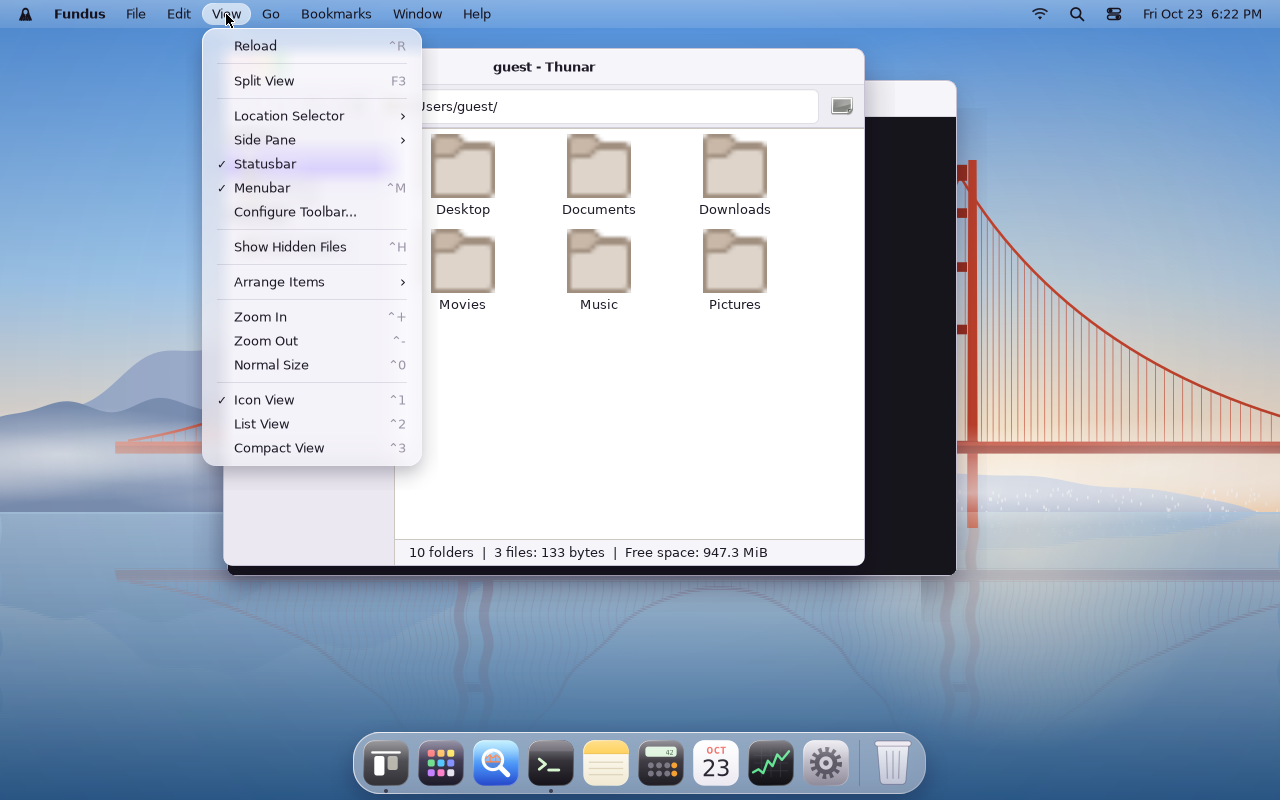
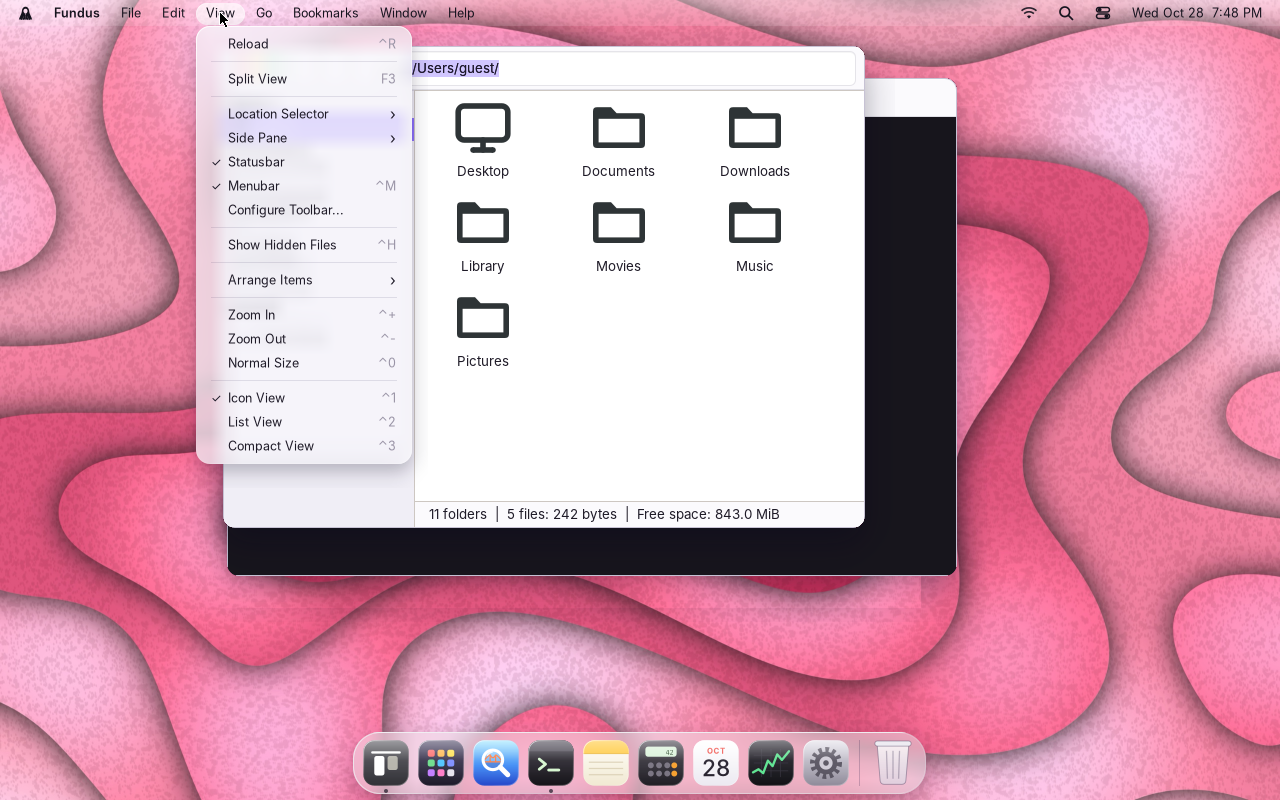
README: ein System mit drei Welten (Mac, Windows, Linux), neue Screenshots (Design, NT, Spotlight, Kalender), Roadmap

diff --git a/README.md b/README.md
@@ -1,10 +1,25 @@
 # ClokeOS
 
-A macOS-like operating system built on the Darwin kernel (XNU), with a cape as its logo.
+ClokeOS is an operating system built on the Darwin kernel (XNU), with a cape as its logo. Its default look is macOS-like, but the goal is one system with three worlds: **Mac** (apps from macOS on Darling's frameworks), **Windows** (a Windows-like interface today, `.exe` programs through Wine, in a tree of their own at `/NT`) and **Linux** (programs in a tree of their own at `/TUX`). What works today and what is still planned is listed under [One system, three worlds](#one-system-three-worlds).
 
 **Download:** the [latest release](https://github.com/cloke-tech/ClokeOS/releases/latest) has USB installers for PCs (offline and online), a ready-made SSD image and installer images for virtual machines (x86_64 and arm64). See [Installing ClokeOS](#installing-clokeos).
 
-![ClokeOS desktop in QEMU: Fundus (Thunar) and Terminal with clokefetch, the Dock below; windows with rounded corners and soft shadows](clokeos-darwin/screenshots/desktop.png)
+![ClokeOS desktop: Fundus (Thunar) and Terminal over the papercut wallpaper, the Dock below, a glass menu bar on top](clokeos-darwin/screenshots/desktop.png)
+
+## One system, three worlds
+
+ClokeOS starts as a macOS-like system and grows towards running software from other systems as well, each in its own tree so that the worlds do not mix:
+
+| World | Works today | Planned |
+|---|---|---|
+| **Mac** (default interface "ClokeOS") | macOS-like desktop (CloakServer), Mac apps on Darling's frameworks (with many gaps), Fundus, Launchpad, Spotlight, System Settings, recovery and installer | bash and Homebrew, a modern browser |
+| **Windows** | the **NT interface**: a Windows-like desktop with taskbar, Start menu, tray and desktop icons (System Settings > Appearance > Interface) | `.exe` programs through Wine (x86_64 only, started), own tree `/NT` (`/NT/Windows`, `/NT/Program Files`, drive C:) |
+| **Linux** | not started | programs in their own tree `/TUX`; needs a translation layer for Linux system calls |
+| **Other CPU** | images for x86_64 and arm64 | a translation layer between arm64 and x86_64 in both directions, like Rosetta 2; a feasibility study comes first |
+
+![The NT interface: square windows with the buttons on the right, a taskbar with the Start button, the running apps, speaker, network and clock, and icons on the desktop](clokeos-darwin/screenshots/nt-desktop.png)
+
+![The NT Start menu: all apps, System Settings, Sleep, Restart, Shut Down and Log Out](clokeos-darwin/screenshots/nt-start.png)
 
 ## What is there
 
@@ -108,7 +123,7 @@ During PCI configuration PureDarwin's `IOPCIFamily` moves the console and writes
 
 ### Desktop: CloakServer
 
-![The same desktop in dark mode: evening sky with stars, dark window frames, the Dock as lighter violet glass](clokeos-darwin/screenshots/desktop-dark.png)
+![The same desktop in dark mode: dark window frames on the plum wallpaper, the Dock as lighter violet glass](clokeos-darwin/screenshots/desktop-dark.png)
 
 The desktop variant builds on PureDarwin's preview image `puredarwin.img` (6.1 GiB, from puredarwin.org; Xorg with PureDarwin's own driver `puredarwingop`, Wayland/sway, i3, Xfce, Wine, compilers). Nothing graphical starts there by itself; ClokeOS starts Xorg with CloakServer at boot through the launchd service `com.clokeos.cloakserver` (`/usr/libexec/cloakserver-start` and `cloakserver-session`, with a D-Bus for the session):
 
@@ -144,6 +159,10 @@ CloakServer itself runs as root, like loginwindow on macOS, and starts apps as t
 
 ![Launchpad: a search field and the apps in a grid over the blurred wallpaper](clokeos-darwin/screenshots/launchpad.png)
 
+![Spotlight: the search for "calc" lists the Calculator and a web search with Search](clokeos-darwin/screenshots/spotlight.png)
+
+![Calendar: a month grid with the day list and a field for new events](clokeos-darwin/screenshots/calendar.png)
+
 Apps in ClokeOS are bundles as on macOS: a folder `Name.app` with `Contents/Info.plist` (`CFBundleName`, `CFBundleIdentifier`, `CFBundleExecutable`, `CFBundleIconFile` …), the executable in `Contents/MacOS/` and the icon in `Contents/Resources/`. CloakServer finds them in `/System/Applications` (utilities in `Utilities/`), `/Applications` and `~/Applications`; Fundus (in a theater, the room where costumes and capes hang) lives in `/System/Library/CoreServices` like the Finder. Installing works as on macOS: drag the bundle into `/Applications` or `~/Applications`, remove it with the Trash. Info.plist may be XML or binary, icons SVG, PNG or `.icns`.
 
 Launchpad ("Applications" in the Dock, the magnifier in the menu bar) shows all apps in a grid; typing searches, Return starts the first, Esc closes. The Dock is stored per user in `~/Library/Preferences/com.clokeos.dock.plist` with the keys of `com.apple.dock`, the appearance in `.GlobalPreferences.plist` (`AppleInterfaceStyle`).
@@ -174,7 +193,7 @@ Before an app starts, CloakServer reads its executable: architecture (also in un
 
 **System Settings** is a window in CloakServer: Appearance, Desktop & Dock, Language & Region, Sharing and Applications. Everything else, such as keyboard and mouse settings, stays in Xfce Settings.
 
-![System Settings: the panes Appearance, Desktop & Dock, Applications, Language & Region and Sharing; Appearance with Light, Dark and Auto](clokeos-darwin/screenshots/settings.png)
+![System Settings: the panes General, Appearance, Wallpaper, Desktop & Dock, Keyboard, Language & Region, Applications and Sharing; Appearance with Light, Dark and Auto](clokeos-darwin/screenshots/settings.png)
 
 CloakServer is built on the Mac, without Linux and without the VM: `cloakserver/build.sh` pulls headers and libraries straight out of the desktop image with `debugfs` and compiles with Apple's clang for `x86_64-apple-macos11.0`, like PureDarwin's own programs (Mach-O for macOS 11, classic dyld info). `cloakserver/resources.py` runs the icon code from `clokeos.html` in macOS' own JavaScript engine (`osascript -l JavaScript`) and writes logo and icons as SVG.
 
@@ -326,7 +345,10 @@ The kernel is the smaller problem, since XNU is open source (Apple Public Source
 3. **Window server.** CloakServer runs as an X11 window manager and compositor with menu bar, Dock, login, setup assistant and global menu bar. Next: user management, sudo, and in the long run a Wayland compositor instead of Xorg.
 4. **Port the shell.** Menu bar, Dock, Launchpad and System Settings are native in CloakServer, apps are `.app` bundles, Mac apps run through Darling's AppKit. Open: Fundus, Search and the other prototype apps as native programs.
 5. ~~**Installer.**~~ Done: installer, recovery, USB sticks and SSD image (see [Recovery and installation](#recovery-and-installation)).
-6. **Real hardware.** Started: USB installers, SATA detection, PS/2 keyboard and touchpad (ClokePS2). Next: I²C touchpads, Wi-Fi.
+6. **Real hardware.** Started: USB installers, SATA detection, PS/2 keyboard and touchpad (ClokePS2), I²C touchpads, several CPU cores. Next: Wi-Fi (Realtek RTL8821CE in development), graphics.
+7. **Windows.** The NT interface exists. Next: Wine for `.exe` programs on x86_64, with the Windows tree in `/NT`.
+8. **Linux.** Programs in `/TUX`; needs a translation layer for Linux system calls.
+9. **Other CPU.** A translation layer between arm64 and x86_64 in both directions, like Rosetta 2, for all binaries; feasibility study first.
 
 Custom images (for example for the Raspberry Pi or with a custom kernel) need PureDarwin's Nix build on Linux (about 60 GB) and Apple's `MacOSX11.3.sdk`, which you have to get yourself because it may not be redistributed.
 
